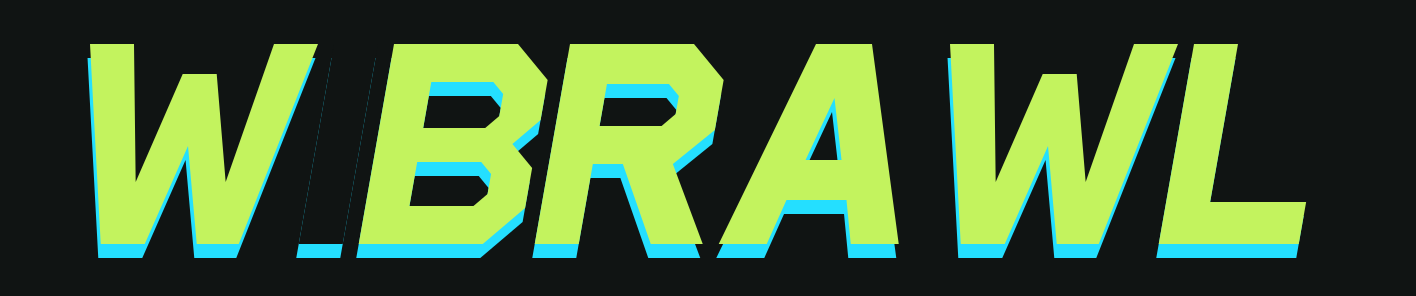
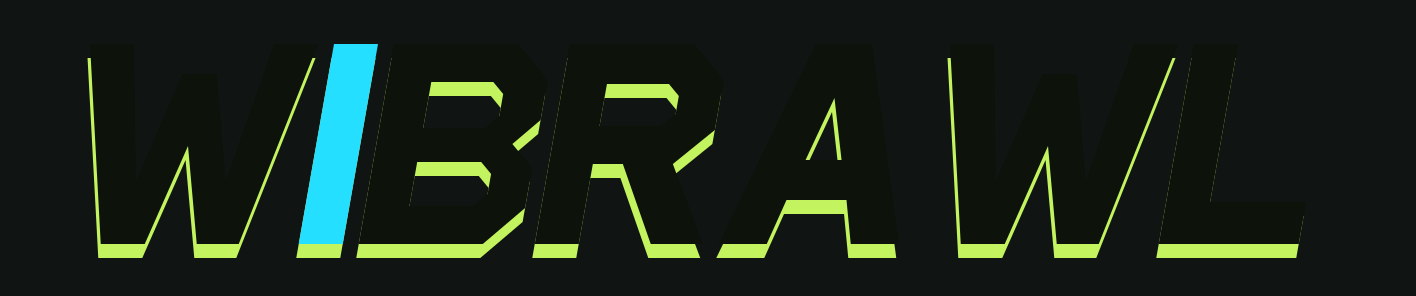
Apply dark lettering blue I and yellow echo to WIBRAWL

diff --git a/design/wibrawl-afterimage/index.html b/design/wibrawl-afterimage/index.html
@@ -1,3 +1,3 @@
 <!doctype html><html lang="en"><head><meta charset="utf-8"><meta name="viewport" content="width=device-width,initial-scale=1"><title>WIBRAWL / Afterimage colours</title><style>
 *{box-sizing:border-box}body{margin:0;background:#101413;color:#F1F4EB;font-family:Arial,sans-serif}main{max-width:1200px;margin:auto;padding:48px 32px}h1{font-size:36px;letter-spacing:-1px}h2{font-size:16px}p{color:#ABB6AA;line-height:1.6}article{padding:28px 0;border-top:1px solid #39473B}article img{display:block;width:100%;margin:24px 0}a{color:#C3F35E;text-underline-offset:5px}@media(max-width:600px){main{padding:28px 20px}h1{font-size:28px}}
-</style></head><body><main><h1>WIBRAWL / AFTERIMAGE</h1><p>The selected middle wordmark, with three alternative colour combinations.</p><article><h2>Gaming lime</h2><img src="wibrawl-gaming-lime.svg" alt="Lime lettering, a cyan lower echo, and a dark I matched to the supplied swatch."/><p>Lime lettering, a cyan lower echo, and a dark I matched to the supplied swatch.</p><a href="wibrawl-gaming-lime.svg" download>Download SVG</a></article><article><h2>Ice blue</h2><img src="wibrawl-ice-blue.svg" alt="Cyan lettering, a muted green-grey lower echo, and a neon yellow I."/><p>Cyan lettering, a muted green-grey lower echo, and a neon yellow I.</p><a href="wibrawl-ice-blue.svg" download>Download SVG</a></article><article><h2>Electric violet</h2><img src="wibrawl-electric-violet.svg" alt="Violet lettering, a cyan lower echo, and a neon yellow I."/><p>Violet lettering, a cyan lower echo, and a neon yellow I.</p><a href="wibrawl-electric-violet.svg" download>Download SVG</a></article></main></body></html>
+</style></head><body><main><h1>WIBRAWL / AFTERIMAGE</h1><p>The selected middle wordmark, with three alternative colour combinations.</p><article><h2>Dark / neon</h2><img src="wibrawl-gaming-lime.svg" alt="Dark lettering, a neon yellow lower echo, and a neon blue I."/><p>Dark lettering, a neon yellow lower echo, and a neon blue I.</p><a href="wibrawl-gaming-lime.svg" download>Download SVG</a></article><article><h2>Ice blue</h2><img src="wibrawl-ice-blue.svg" alt="Cyan lettering, a muted green-grey lower echo, and a neon yellow I."/><p>Cyan lettering, a muted green-grey lower echo, and a neon yellow I.</p><a href="wibrawl-ice-blue.svg" download>Download SVG</a></article><article><h2>Electric violet</h2><img src="wibrawl-electric-violet.svg" alt="Violet lettering, a cyan lower echo, and a neon yellow I."/><p>Violet lettering, a cyan lower echo, and a neon yellow I.</p><a href="wibrawl-electric-violet.svg" download>Download SVG</a></article></main></body></html>

diff --git a/design/wibrawl-afterimage/README.md b/design/wibrawl-afterimage/README.md
@@ -4,11 +4,11 @@ Uses the middle wordmark from the supplied reference: `design/wibrawl-logo/02-af
 
 | Variant | Lettering | Lower echo | I accent |
 | --- | --- | --- | --- |
-| Gaming lime | `#C3F35E` | `#24DFFF` | `#101413` |
+| Dark / neon | `#0D120B` | `#C3F35E` | `#24DFFF` |
 | Ice blue | `#24DFFF` | `#849689` | `#D7FF45` |
 | Electric violet | `#B995FF` | `#24DFFF` | `#D7FF45` |
 
-The Gaming lime colour and the comparison background `#101413` come from the Wibrawl website's Gaming theme. The Gaming lime variant's formerly white I now uses the exact solid colour from the supplied swatch: `#101413`. On the same dark background its main face blends into the background, with the cyan echo remaining visible. The violet version explores a new accent palette.
+The first variant follows the requested colour swap: the I changes from dark to neon blue, the main lettering changes from neon yellow to `#0D120B`, and the lower echo changes from neon blue to neon yellow. It retains its `gaming-lime` filename so existing download links continue to work. The yellow-green `#C3F35E` and comparison background `#101413` come from the Wibrawl website's Gaming theme. The violet version explores a new accent palette.
 
 `wibrawl-gaming-lime.svg`, `wibrawl-ice-blue.svg`, and `wibrawl-electric-violet.svg` are transparent scalable vector masters. Each contains custom path lettering without fonts, external assets, scripts, or bitmap content. `wibrawl-original.svg` preserves the supplied design's original cyan, pink and yellow combination.
 
